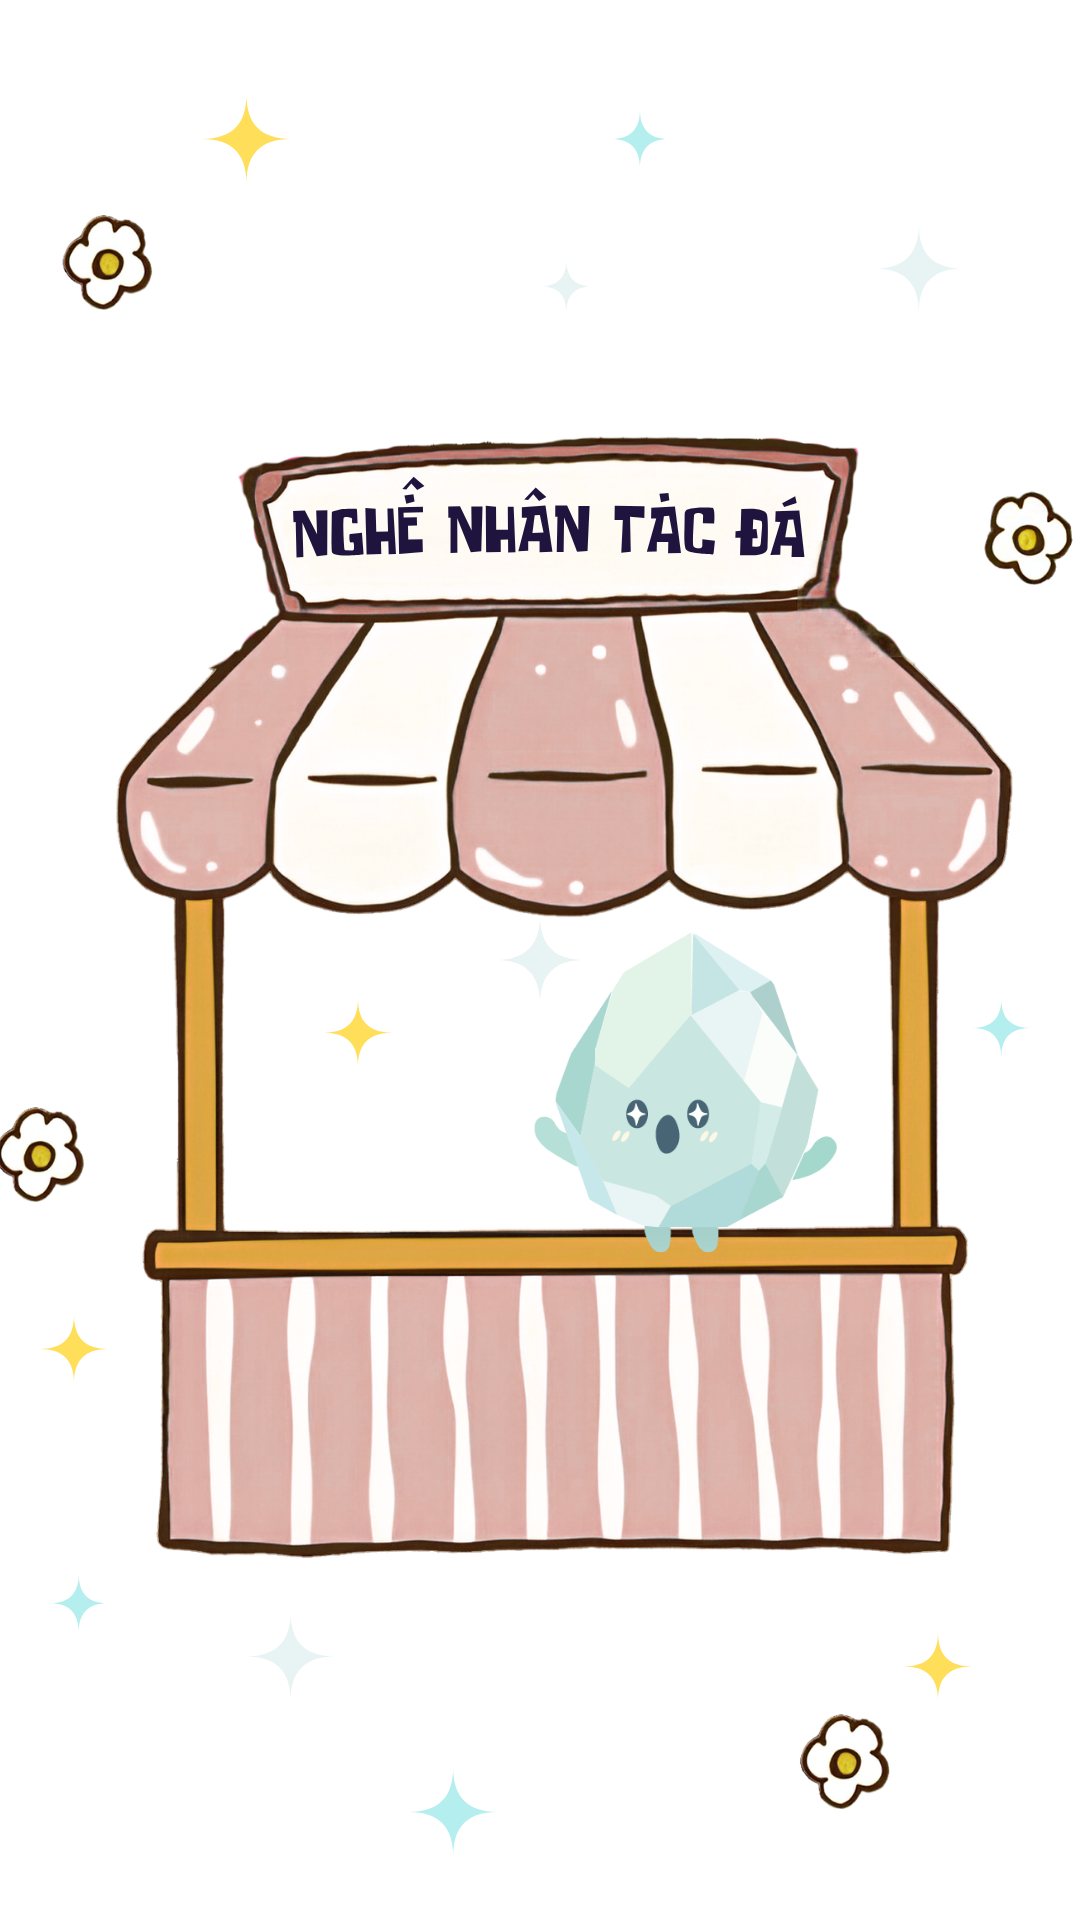
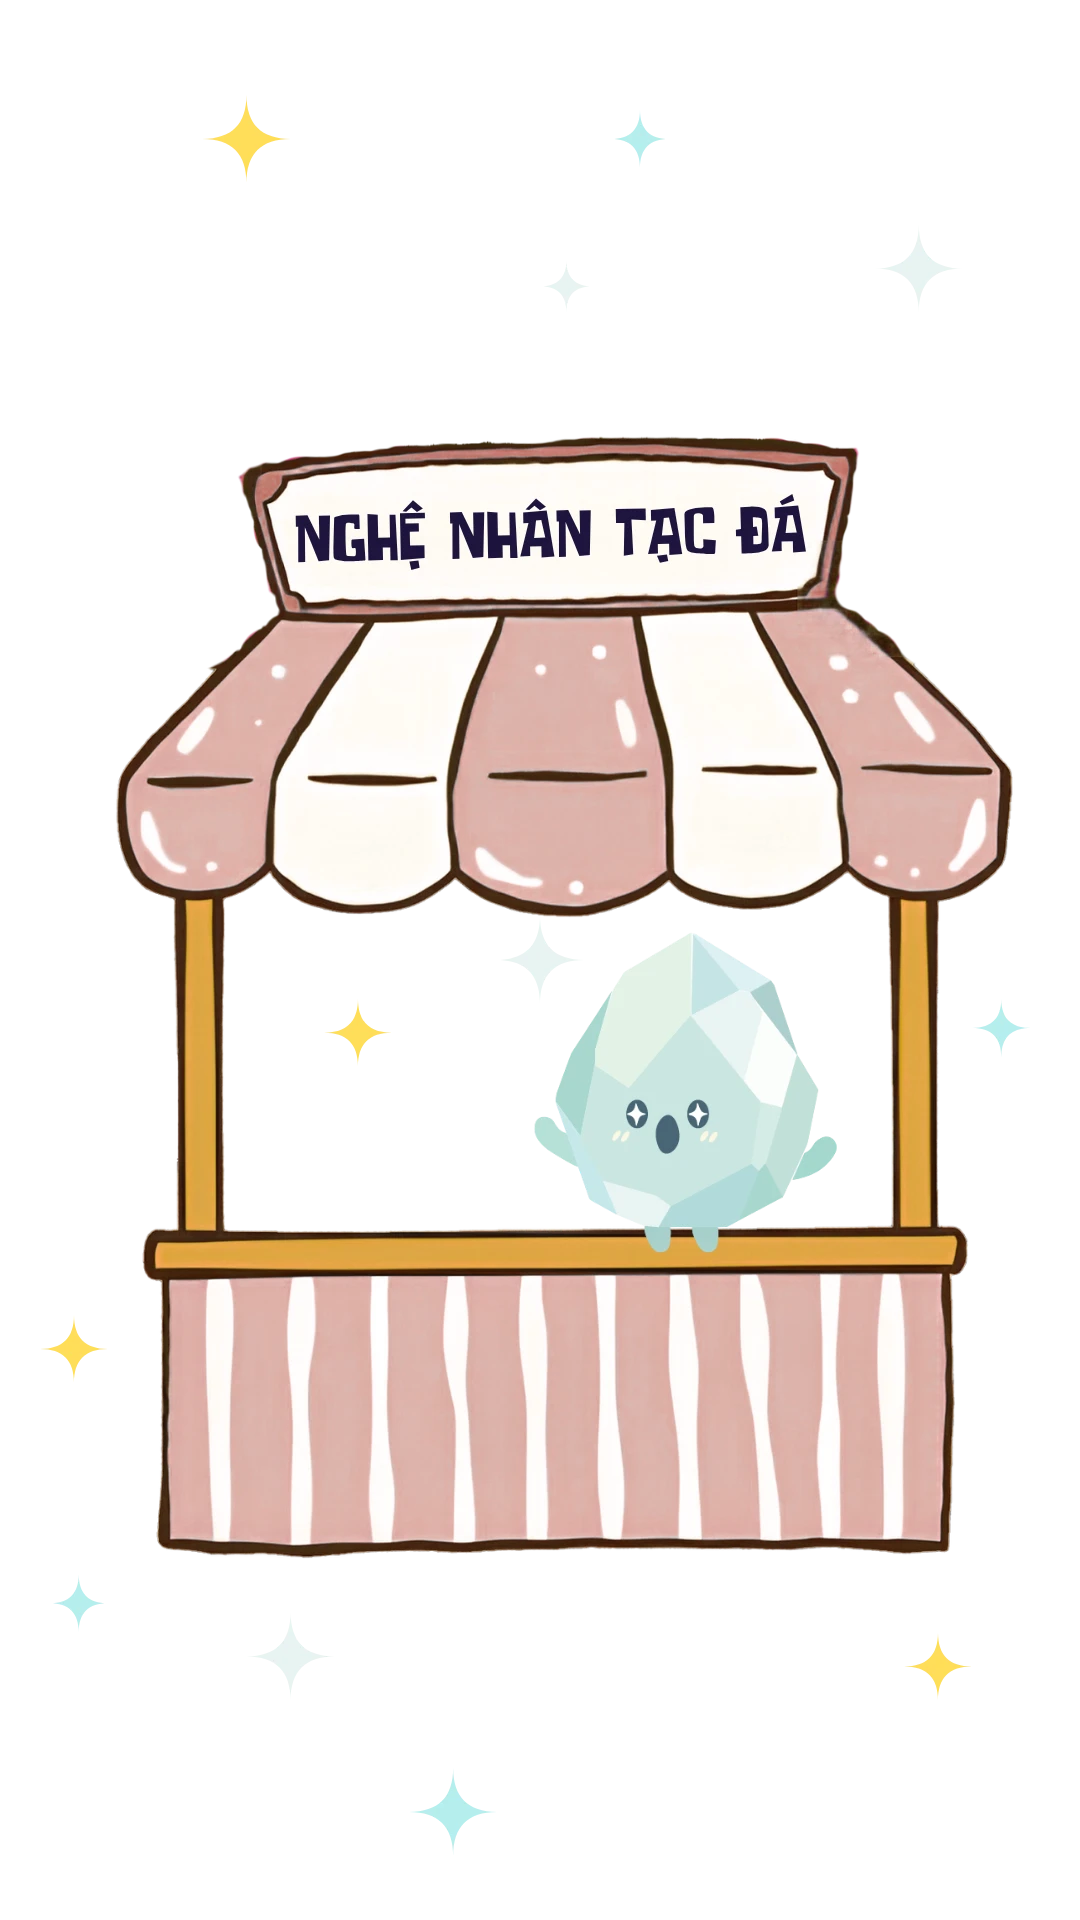
fix: keep rock on login screen, swap booth art on gate screen
Revert 86ae16c: the pre-login start screen keeps the raw rock mascot.
The new booth illustration replaces gate-stall.webp, shown after login.

diff --git a/web/src/screens/StartScreen.tsx b/web/src/screens/StartScreen.tsx
@@ -1,9 +1,11 @@
+import { Mascot } from '../components/Mascot'
+
 export function StartScreen({ error, cta, onCta, busy }: { error: string; cta: string; onCta: () => void; busy?: boolean }) {
   return <main className="screen start">
     <p className="eyebrow">NGHỆ NHÂN TẠC ĐÁ</p>
     <h1>Từ khối đá thô,<br />đến một tác phẩm.</h1>
     <p className="muted">Khám phá nghề tạc đá qua 12 câu hỏi. Mỗi câu đúng giúp tác phẩm thành hình.</p>
-    <img className="booth" src="/assets/start-booth.webp" width="456" height="576" alt="Gian hàng Nghệ nhân tạc đá" />
+    <Mascot stage="RAW" />
     <ul className="rules">
       <li>12 câu hỏi · Mỗi câu chốt một lần</li>
       <li>Đạt 10/12 để nhận danh hiệu</li>

diff --git a/web/src/style.css b/web/src/style.css
@@ -253,7 +253,7 @@ h2 { font-size: 1.05rem; margin: 0; }
 .start h1, .result h1 { font-size: 34px; line-height: 41px; }
 .start h1 { top: 80px; }
 .start > .muted { top: 190px; font-size: 17px; line-height: 24px; }
-.start .booth { left: 61px; top: 278px; width: 268px; height: 200px; object-fit: contain; }
+.start .mascot { left: 61px; top: 283px; width: 268px; height: 190px; }
 .start .rules { top: 491px; gap: 12px; line-height: 24px; }
 .start .error { top: 610px; }
 .start .bottom, .play .bottom, .result .bottom { margin: 0; padding: 0; }
